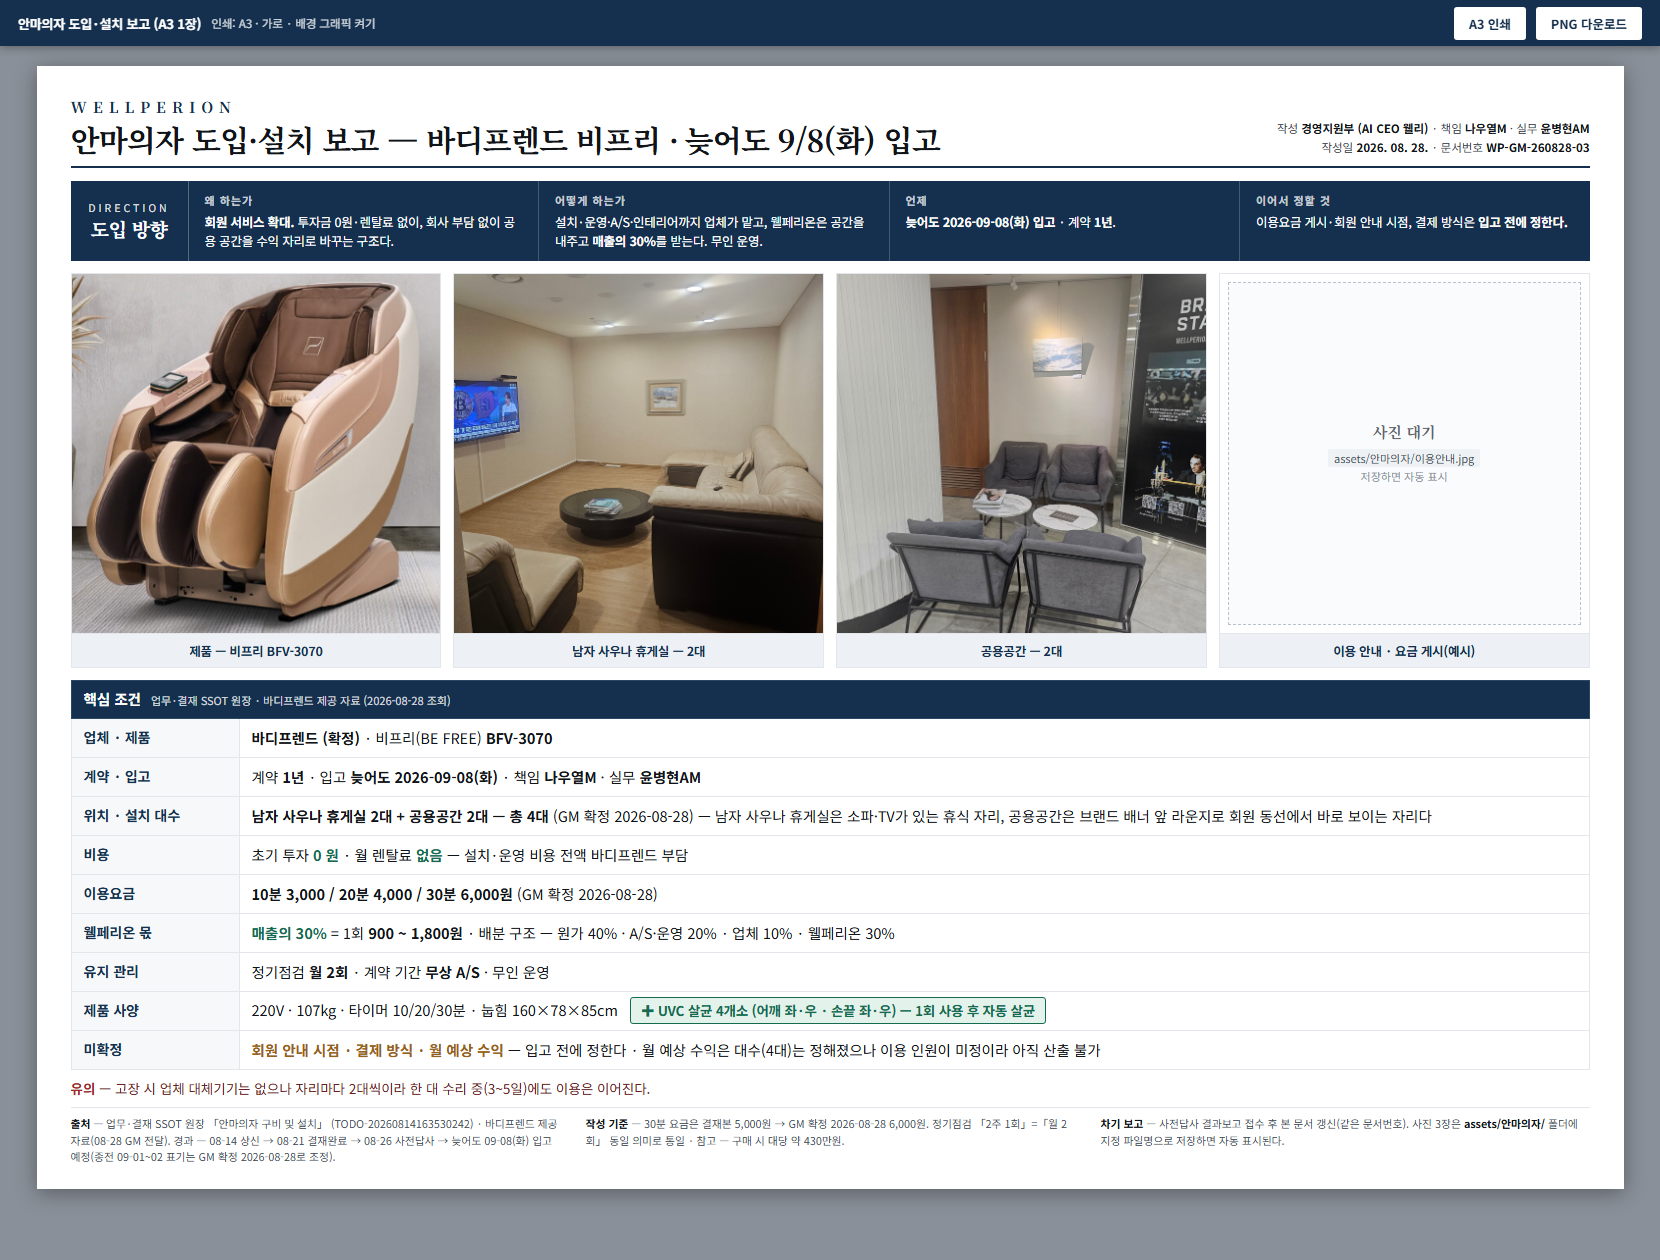
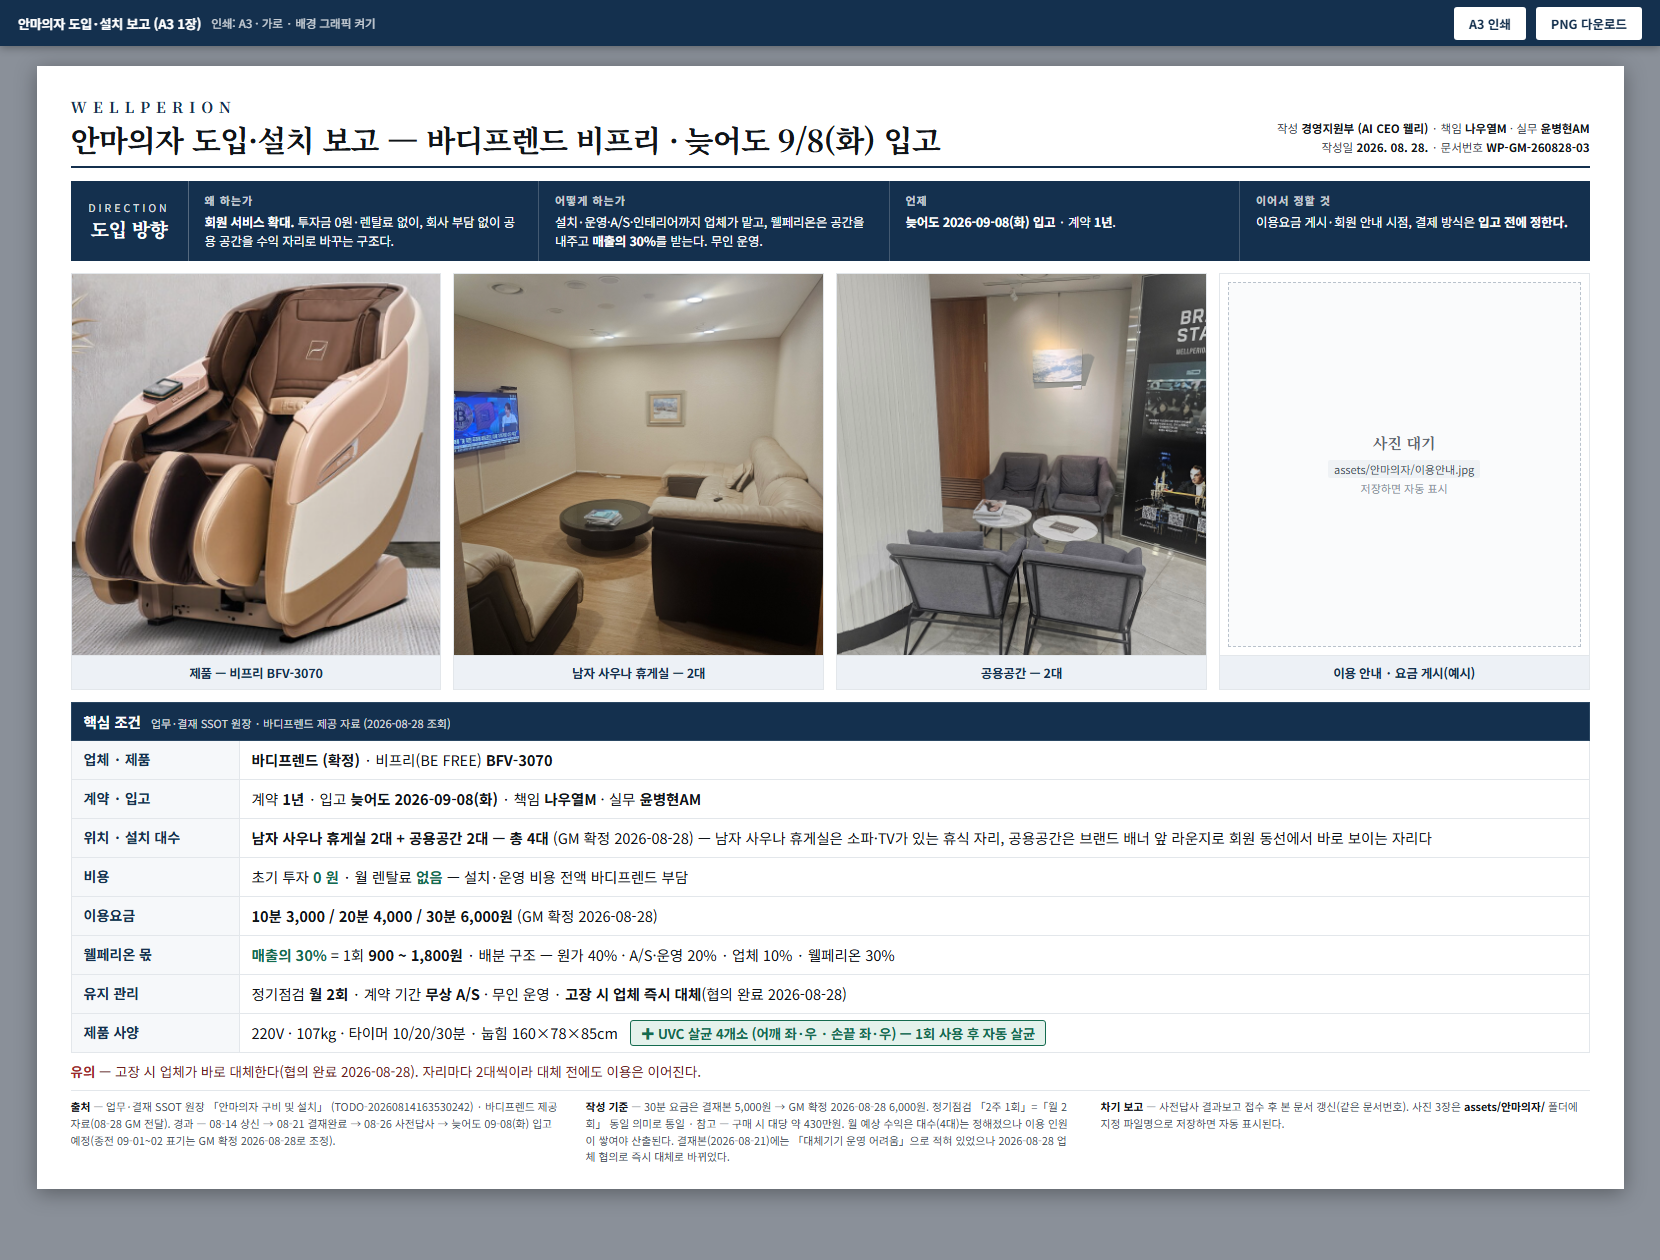
docs(ceo): 안마의자 A3 — 미확정 행 삭제 + 고장 시 업체 즉시 대체 협의 반영 (GM 확정 2026-08-28)

diff --git a/3. 웰페리온 가이드/reports/260828_안마의자_도입설치_A3.html b/3. 웰페리온 가이드/reports/260828_안마의자_도입설치_A3.html
@@ -188,20 +188,19 @@
       <tr><td class="k">비용</td><td>초기 투자 <span class="good">0 원</span> · 월 렌탈료 <span class="good">없음</span> — 설치·운영 비용 전액 바디프렌드 부담</td></tr>
       <tr><td class="k">이용요금</td><td><b>10분 3,000 / 20분 4,000 / 30분 6,000원</b> (GM 확정 2026-08-28)</td></tr>
       <tr><td class="k">웰페리온 몫</td><td><b class="good">매출의 30%</b> = 1회 <b>900 ~ 1,800원</b> · 배분 구조 — 원가 40% · A/S·운영 20% · 업체 10% · 웰페리온 30%</td></tr>
-      <tr><td class="k">유지 관리</td><td>정기점검 <b>월 2회</b> · 계약 기간 <b>무상 A/S</b> · 무인 운영</td></tr>
+      <tr><td class="k">유지 관리</td><td>정기점검 <b>월 2회</b> · 계약 기간 <b>무상 A/S</b> · 무인 운영 · <b>고장 시 업체 즉시 대체</b>(협의 완료 2026-08-28)</td></tr>
       <tr><td class="k">제품 사양</td><td>220V · 107kg · 타이머 10/20/30분 · 눕힘 160×78×85cm <span class="uvc">✚ UVC 살균 4개소 (어깨 좌·우 · 손끝 좌·우) — 1회 사용 후 자동 살균</span></td></tr>
-      <tr><td class="k">미확정</td><td><span class="warn">회원 안내 시점 · 결제 방식 · 월 예상 수익</span> — 입고 전에 정한다 · 월 예상 수익은 대수(4대)는 정해졌으나 이용 인원이 미정이라 아직 산출 불가</td></tr>
     </tbody>
   </table>
   </div>
 
   <!-- 유의사항 한 줄 -->
-  <div class="note1"><b>유의</b> — 고장 시 업체 대체기기는 없으나 자리마다 2대씩이라 한 대 수리 중(3~5일)에도 이용은 이어진다.</div>
+  <div class="note1"><b>유의</b> — 고장 시 업체가 바로 대체한다(협의 완료 2026-08-28). 자리마다 2대씩이라 대체 전에도 이용은 이어진다.</div>
 
   <!-- ⑤ 각주 -->
   <div class="foot">
     <div><b>출처</b> — 업무·결재 SSOT 원장 「안마의자 구비 및 설치」 (TODO-20260814163530242) · 바디프렌드 제공 자료(08-28 GM 전달). 경과 — 08-14 상신 → 08-21 결재완료 → 08-26 사전답사 → 늦어도 09-08(화) 입고 예정(종전 09-01~02 표기는 GM 확정 2026-08-28로 조정).</div>
-    <div><b>작성 기준</b> — 30분 요금은 결재본 5,000원 → GM 확정 2026-08-28 6,000원. 정기점검 「2주 1회」=「월 2회」 동일 의미로 통일 · 참고 — 구매 시 대당 약 430만원.</div>
+    <div><b>작성 기준</b> — 30분 요금은 결재본 5,000원 → GM 확정 2026-08-28 6,000원. 정기점검 「2주 1회」=「월 2회」 동일 의미로 통일 · 참고 — 구매 시 대당 약 430만원. 월 예상 수익은 대수(4대)는 정해졌으나 이용 인원이 쌓여야 산출된다. 결재본(2026-08-21)에는 「대체기기 운영 어려움」으로 적혀 있었으나 2026-08-28 업체 협의로 즉시 대체로 바뀌었다.</div>
     <div><b>차기 보고</b> — 사전답사 결과보고 접수 후 본 문서 갱신(같은 문서번호). 사진 3장은 <b>assets/안마의자/</b> 폴더에 지정 파일명으로 저장하면 자동 표시된다.</div>
   </div>
 

diff --git a/3. 웰페리온 가이드/coo/chairman/_chairman_items.js b/3. 웰페리온 가이드/coo/chairman/_chairman_items.js
@@ -74,6 +74,6 @@ window.WellperionChairmanItems = [
   { id: "d29", title: "감염병 예방 — 중국 코로나 재확산 대비", when: "회장님 말씀 · GM 전달 2026-08-25 · 3부서 점검·청소 동선에 예방 5항목 반영 완료(새 점검표 없음 · 지원부 G-2/G-3/G-4 · 주차 일일·주간) · 매일 보고 반영 + 실장·소장·전부서 전달 완료 · 구매·관리는 운영부 담당(GM 확정 8/25) · 보고 자료 = A3 1장 준비 완료(결정요청 2건 — 세스코 방역 실시 확인 · 소모품 예산 배정) · 보고일 미정(웰리 제안 1차 점검 9/1 · 보고 9/5)", cat: "시설 및 환경", link: {label: "GM업무 ▸ 감염병 예방 강화", href: "GM업무.html#gm-2026-08-50"} },
   /* d30 = 2026-08-28 GM 지시로 추가. GM 원문: "GM업무 20 바디프렌드 유료 공유 안마의자 도입 관련해서는
    * A3 요약본 해줘, 그리고 회장님 대표님 보고건으로도 올려줘 보고하고 보고완료할게". 보고 전 상태로 등록. */
-  { id: "d30", title: "바디프렌드 유료 공유 안마의자 도입 — 늦어도 9/8(화) 입고", when: "GM 확정 2026-08-28 · 업체 바디프렌드(비프리 BFV-3070) · 계약 1년 · 초기 투자 0원(설치비·운영비 전액 업체) · 이용요금 10분 3,000 / 20분 4,000 / 30분 6,000원 · 매출 30% 웰페리온 배분(1회 900~1,800원) · 월 2회 정기점검·계약 기간 무상 A/S · 결재 완료 2026-08-21 · 입고 늦어도 2026-09-08(화) · 입고 전 확정 필요 = 회원 안내 시점·결제 방식 · GM업무 = 20번(2026-08-52) 별도 관리 — 2026-08-28 환원 · 담당 — 책임 나우열M · 실무 윤병현AM (GM 확정 2026-08-28) · 설치 4대(남 사우나 휴게실 2 + 공용공간 2 · GM 확정 2026-08-28)", cat: "매출 및 영업", link: {label: "A3 ▸ 안마의자 도입·설치 보고", href: "../../reports/260828_안마의자_도입설치_A3.html"} }
+  { id: "d30", title: "바디프렌드 유료 공유 안마의자 도입 — 늦어도 9/8(화) 입고", when: "GM 확정 2026-08-28 · 업체 바디프렌드(비프리 BFV-3070) · 계약 1년 · 초기 투자 0원(설치비·운영비 전액 업체) · 이용요금 10분 3,000 / 20분 4,000 / 30분 6,000원 · 매출 30% 웰페리온 배분(1회 900~1,800원) · 월 2회 정기점검·계약 기간 무상 A/S · 결재 완료 2026-08-21 · 입고 늦어도 2026-09-08(화) · 입고 전 확정 필요 = 회원 안내 시점·결제 방식 · 고장 시 업체 즉시 대체 협의 완료(2026-08-28) · GM업무 = 20번(2026-08-52) 별도 관리 — 2026-08-28 환원 · 담당 — 책임 나우열M · 실무 윤병현AM (GM 확정 2026-08-28) · 설치 4대(남 사우나 휴게실 2 + 공용공간 2 · GM 확정 2026-08-28)", cat: "매출 및 영업", link: {label: "A3 ▸ 안마의자 도입·설치 보고", href: "../../reports/260828_안마의자_도입설치_A3.html"} }
 ];
 })();
